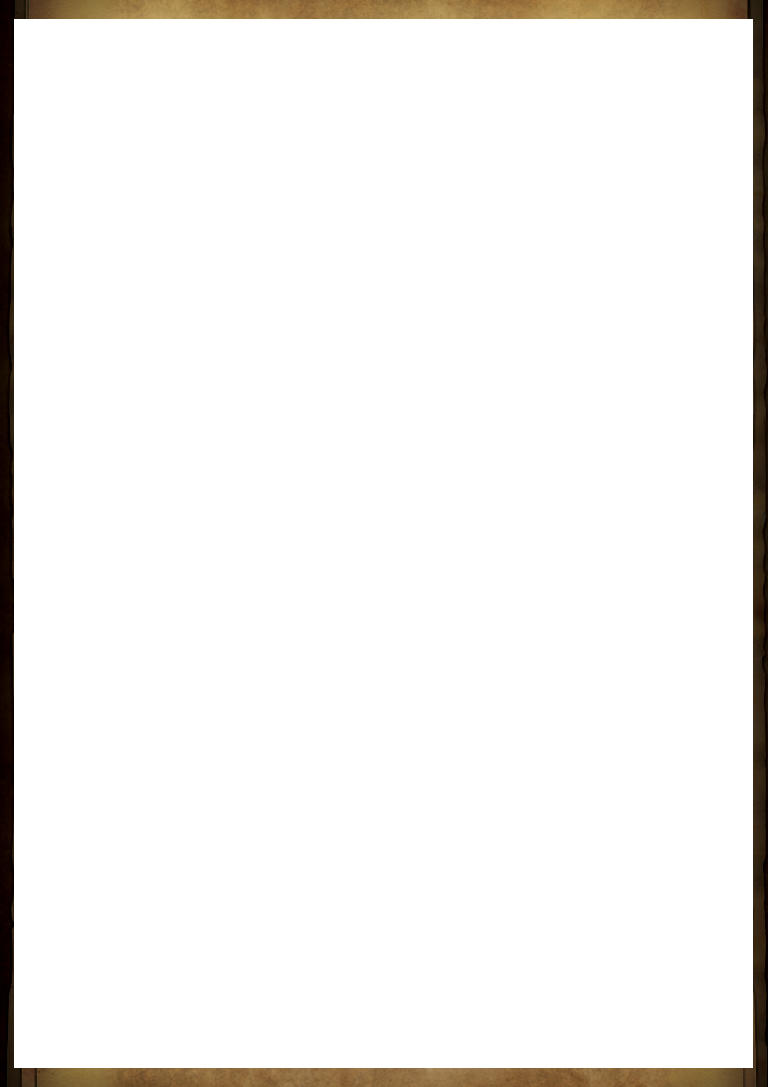
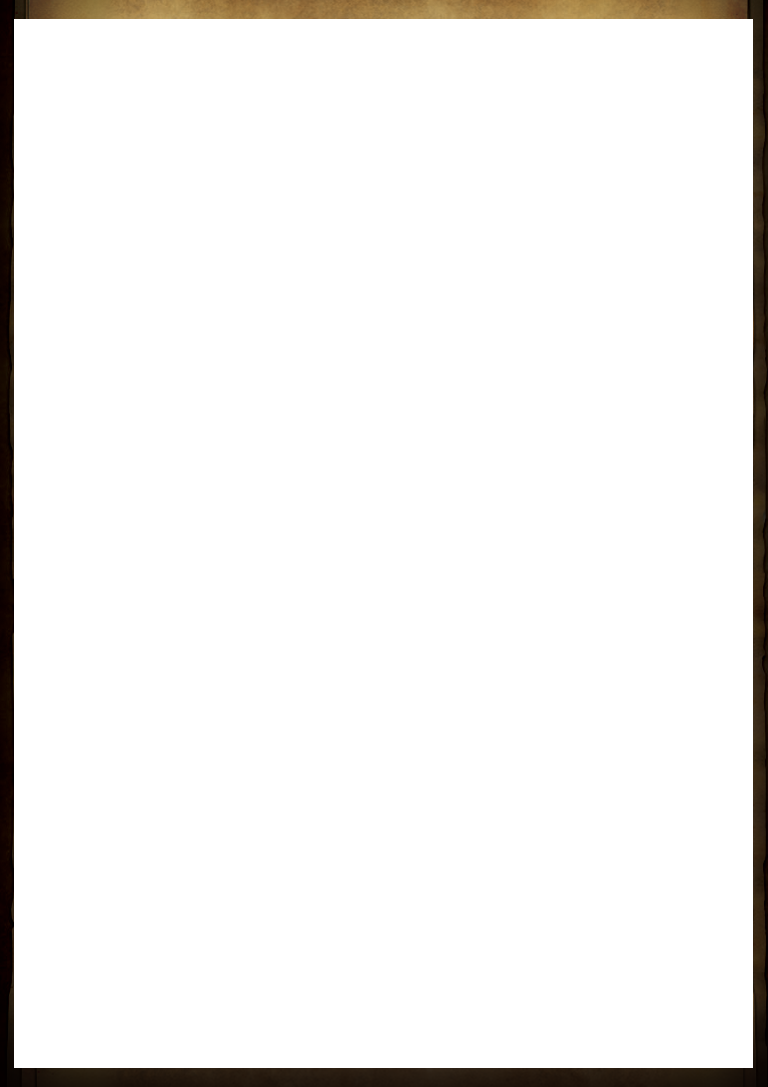
冒险参考卡黑色遮罩层

Changed region(s): [[0.0, 0.9411, 1.0, 1.0]]

diff --git a/Card.py b/Card.py
@@ -1127,7 +1127,7 @@ class Card:
             center_text = ''
         # 添加底部信息蒙版
         if left_text != '' or center_text != '' or encounter_text != '' or right_text != '':
-            if self.card_type in ['敌人卡', '冒险参考卡']:
+            if self.card_type in ['敌人卡']:
                 self.paste_with_multiply_blend(
                     self.image_manager.get_image('底部信息蒙版_敌人'),
                     (0, 1000)
